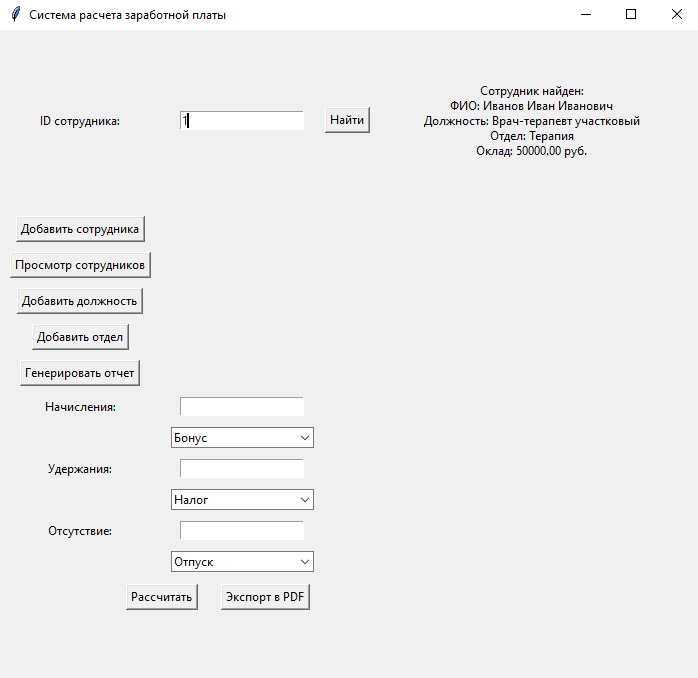
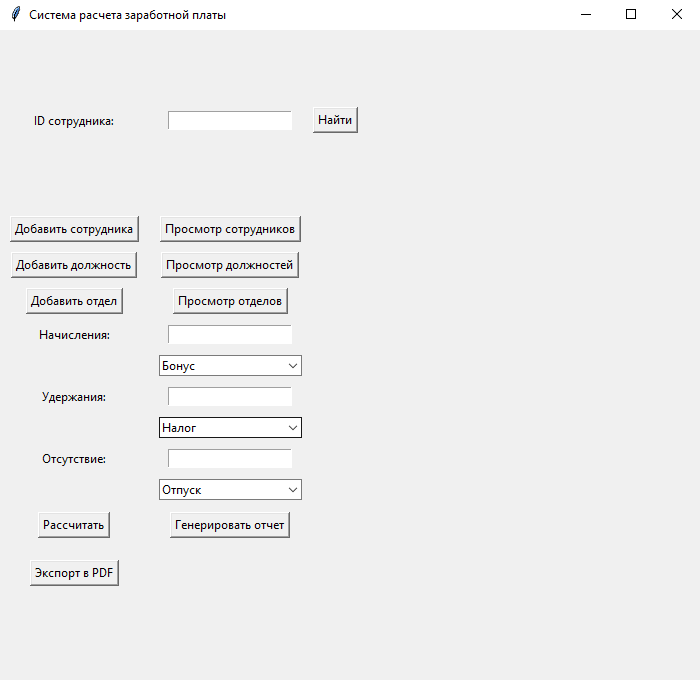
Обновлён скриншот, добавлены новые функции

diff --git a/client/ui.py b/client/ui.py
@@ -46,13 +46,17 @@ class PayrollAppUI:
         tk.Button(self.root, text="Найти", command=self.search_employee).grid(row=0, column=2, padx=1, pady=10)
         tk.Button(self.root, text="Добавить сотрудника", command=self.add_employee_form).grid(row=1, column=0, padx=10,
                                                                                               pady=5)
-        tk.Button(self.root, text="Просмотр сотрудников", command=self.view_employees).grid(row=2, column=0, padx=10,
+        tk.Button(self.root, text="Просмотр сотрудников", command=self.view_employees).grid(row=1, column=1, padx=10,
                                                                                             pady=5)
-        tk.Button(self.root, text="Добавить должность", command=self.add_position_form).grid(row=3, column=0, padx=10,
+        tk.Button(self.root, text="Добавить должность", command=self.add_position_form).grid(row=2, column=0, padx=10,
                                                                                              pady=5)
-        tk.Button(self.root, text="Добавить отдел", command=self.add_department_form).grid(row=4, column=0, padx=10,
+        tk.Button(self.root, text="Просмотр должностей", command=self.view_positions).grid(row=2, column=1, padx=10,
+                                                                                            pady=5)
+        tk.Button(self.root, text="Добавить отдел", command=self.add_department_form).grid(row=3, column=0, padx=10,
                                                                                            pady=5)
-        tk.Button(self.root, text="Генерировать отчет", command=self.generate_report).grid(row=5, column=0, padx=10,
+        tk.Button(self.root, text="Просмотр отделов", command=self.view_departments).grid(row=3, column=1, padx=10,
+                                                                                           pady=5)
+        tk.Button(self.root, text="Генерировать отчет", command=self.generate_report).grid(row=13, column=1, padx=10,
                                                                                            pady=5)
 
         # Поле для отображения результатов поиска
@@ -90,11 +94,11 @@ class PayrollAppUI:
         self.absence_type_menu.grid(row=11, column=1, padx=10, pady=5)
 
         # Кнопка расчета
-        tk.Button(self.root, text="Рассчитать", command=self.calculate_salary).grid(row=13, column=0, columnspan=2,
+        tk.Button(self.root, text="Рассчитать", command=self.calculate_salary).grid(row=13, column=0, columnspan=1,
                                                                                     pady=7)
         # Кнопка экспорта в PDF
-        tk.Button(self.root, text="Экспорт в PDF", command=self.export_to_pdf).grid(row=13, column=1, columnspan=2,
-                                                                                    pady=7)
+        tk.Button(self.root, text="Экспорт в PDF", command=self.export_to_pdf).grid(row=14, column=0, columnspan=1,
+                                                                                    pady=15)
 
     def search_employee(self):
         """Поиск сотрудника по ID"""
@@ -234,6 +238,57 @@ class PayrollAppUI:
                 messagebox.showerror("Ошибка", str(e))
 
         tk.Button(form_window, text="Сохранить", command=save_department).grid(row=1, column=0, columnspan=2, pady=10)
+
+    def view_departments(self):
+        """Окно просмотра отделов"""
+        try:
+            response = requests.get(f"{self.api_url}/departments")
+
+            if response.status_code == 200:
+                departments = response.json()
+                if not departments:
+                    messagebox.showinfo("Информация", "Отделы не найдены.")
+                    return
+
+                form_window = tk.Toplevel(self.root)
+                form_window.title("Список отделов")
+                tree = ttk.Treeview(form_window, columns=("ID", "Название"), show="headings")
+                tree.heading("ID", text="ID")
+                tree.heading("Название", text="Название отдела")
+                tree.pack(padx=10, pady=10)
+
+                for department in departments:
+                    tree.insert("", "end", values=department)
+            else:
+                messagebox.showerror("Ошибка", "Не удалось получить список отделов")
+        except requests.exceptions.ConnectionError:
+            messagebox.showerror("Ошибка", "Не удалось подключиться к серверу!")
+
+    def view_positions(self):
+        """Окно просмотра должностей"""
+        try:
+            response = requests.get(f"{self.api_url}/positions")
+
+            if response.status_code == 200:
+                positions = response.json()
+                if not positions:
+                    messagebox.showinfo("Информация", "Должности не найдены.")
+                    return
+
+                form_window = tk.Toplevel(self.root)
+                form_window.title("Список должностей")
+                tree = ttk.Treeview(form_window, columns=("ID", "Название", "Оклад"), show="headings")
+                tree.heading("ID", text="ID")
+                tree.heading("Название", text="Название")
+                tree.heading("Оклад", text="Оклад (руб.)")
+                tree.pack(padx=10, pady=10)
+
+                for position in positions:
+                    tree.insert("", "end", values=position)
+            else:
+                messagebox.showerror("Ошибка", "Не удалось получить список должностей")
+        except requests.exceptions.ConnectionError:
+            messagebox.showerror("Ошибка", "Не удалось подключиться к серверу!")
 
     def generate_report(self):
         """Окно генерации отчета"""

diff --git a/server/db_connector.py b/server/db_connector.py
@@ -48,11 +48,21 @@ class DBConnector:
             (name, base_salary)
         )
 
+    def get_all_positions(self):
+        """Получить все должности"""
+        query = "SELECT Id, Name, BaseSalary FROM positions"
+        return self.execute_query(query)
+
     def add_department(self, name):
         self.execute_query(
             "INSERT INTO Department (Name) VALUES (%s)",
             (name,)
         )
+
+    def get_all_departments(self):
+        """Получить все отделы"""
+        query = "SELECT Id, Name FROM department"
+        return self.execute_query(query)
 
     def generate_payroll_report(self, period):
         result = self.execute_query(

diff --git a/README.md b/README.md
@@ -31,7 +31,9 @@ payroll_app/
 -  **Добавление нового сотрудника** — с указанием ФИО, должности и отдела
 -  **Просмотр всех сотрудников** — табличный список с основными данными
 -  **Управление должностями** — добавление новых должностей с указанием оклада
+-  **Просмотр всех должностей** — табличный список с основными данными
 -  **Управление отделами** — создание новых отделов
+-  **Просмотр всех отделов** — табличный список с основными данными
 
 ### **Расчёт заработной платы:**
 -  **Начисления** — бонусы, премии, компенсации (с выбором типа)
